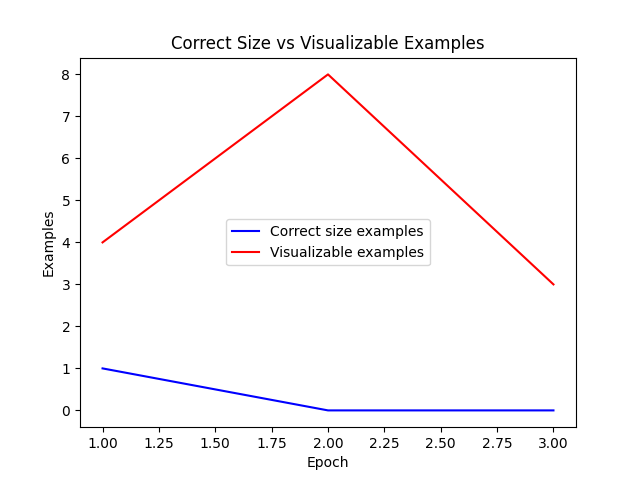
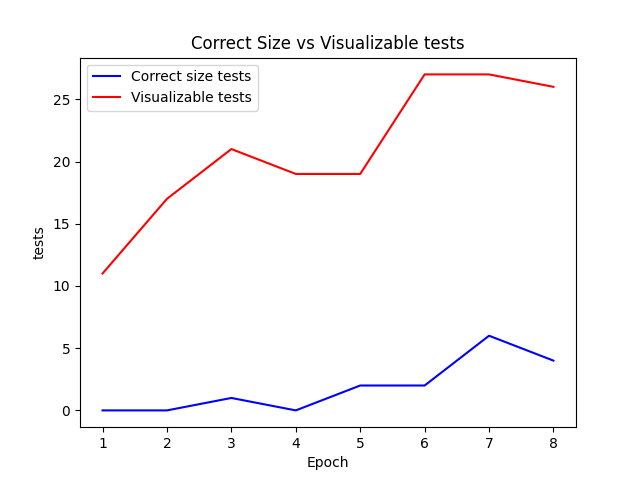
Update model stats visualization and add moving average

diff --git a/train_gpt2.py b/train_gpt2.py
@@ -38,9 +38,23 @@ class ArcDataset(Dataset):
     def __getitem__(self, idx):
         return self.data[idx]
 
-def train(model_path, learning_rate, batch_size, epoch, model_name=None):
+def train(model_path, learning_rate, batch_size, epoch, model_name=None, stats=[]):
     if model_name is None:
         model_name = model_path
+
+    if stats == []:
+        max_correct_size_tests = 0
+    else:
+        # Check if epoch exists in stats
+        epoch_exists_in_stats = any(stat['epoch'] == epoch for stat in stats)
+        # Remove all stats after the epoch
+        stats = [stat for stat in stats if stat['epoch'] <= epoch]
+        if epoch_exists_in_stats:
+            # Get the max correct size tests from stats
+            max_correct_size_tests = max([stat['correct_size_tests'] for stat in stats])
+        else:
+            raise Exception("Epoch does not match with the last epoch in stats")
+    
     print(f"model_path: {model_path}\nlearning_rate: {learning_rate}\nbatch_size: {batch_size}\nmodel_name: {model_name}\nepoch: {epoch}")
     tokenizer = GPT2Tokenizer.from_pretrained(model_path)
     # Ensure that pad_token is set
@@ -74,7 +88,6 @@ def train(model_path, learning_rate, batch_size, epoch, model_name=None):
 
     # Train model
     print("Start training...")
-    stats = []
     while True:  # Number of epochs
         model.train()
 
@@ -98,13 +111,13 @@ def train(model_path, learning_rate, batch_size, epoch, model_name=None):
         epoch += 1
         print(f"Epoch {epoch} completed with loss {loss.item()}")
 
-        visualizable_examples = 0
-        correct_size_examples = 0
+        visualizable_tests = 0
+        correct_size_tests = 0
         
-        # Evaluate model every epoch by generating 5 examples called from test data '0c786b71.json' and visualize them
-        temperature = 0.0
+        # Evaluate model every epoch by generating 5 tests called from test data '0c786b71.json' and visualize them
+        temperature = 0.1
 
-        for l in range(1, 11+1):
+        for l in range(1, 10+1):
                 for i in range(1, 3+1):
                             result = test_gpt2.test_model(model, tokenizer, device, temperature)
 
@@ -114,10 +127,10 @@ def train(model_path, learning_rate, batch_size, epoch, model_name=None):
                             elif result == 'invalid x-axis size':
                                 continue
                             elif result == 'invalid y-axis size':
-                                visualizable_examples += 1
+                                visualizable_tests += 1
                             else:
-                                correct_size_examples += 1
-                                visualizable_examples += 1
+                                correct_size_tests += 1
+                                visualizable_tests += 1
                                 # Visualize the result
                                 data = json.loads(result)
                                 visualize.heatmap(f"{model_name}_{learning_rate}_{epoch}", data, round(temperature,2), i)
@@ -127,15 +140,16 @@ def train(model_path, learning_rate, batch_size, epoch, model_name=None):
         if stats == []:
             stats.append({
                 'epoch': epoch,
-                'correct_size_examples': correct_size_examples,
-                'visualizable_examples': visualizable_examples
+                'correct_size_tests': correct_size_tests,
+                'visualizable_tests': visualizable_tests
             })
-        # if the number of correct size examples or visualizable examples is higher than the previous epoch, save the model
-        elif stats[-1]['correct_size_examples'] < correct_size_examples:
+        # if the number of correct size tests or visualizable tests is higher than the previous epoch, save the model
+        elif max_correct_size_tests < correct_size_tests:
+            max_correct_size_tests = correct_size_tests
             stats.append({
                 'epoch': epoch,
-                'correct_size_examples': correct_size_examples,
-                'visualizable_examples': visualizable_examples
+                'correct_size_tests': correct_size_tests,
+                'visualizable_tests': visualizable_tests
             })
             # Save model
             print(f"Saving model...")
@@ -145,16 +159,18 @@ def train(model_path, learning_rate, batch_size, epoch, model_name=None):
         else:
             stats.append({
                 'epoch': epoch,
-                'correct_size_examples': correct_size_examples,
-                'visualizable_examples': visualizable_examples
+                'correct_size_tests': correct_size_tests,
+                'visualizable_tests': visualizable_tests
             })
+
+        # Visualize stats
+        visualize.graph(model_name, learning_rate, stats)
+        visualize.avg_graph(model_name, learning_rate, stats)
+
         os.makedirs(f'stats', exist_ok=True)
         # Save stats
         with open(f'stats/{model_name}_{learning_rate}.json', 'w') as file:
             json.dump(stats, file)
-        
-        # Visualize stats
-        visualize.graph(model_name, learning_rate)
             
 
 if __name__ == '__main__':
@@ -169,8 +185,11 @@ if __name__ == '__main__':
         batch_size = 1
         parent_model = ''.join(model_path.split('_')[:-2])
         epoch = int(model_path.split('_')[-1])
+        # Load stats
+        with open(f'stats/{parent_model}_{learning_rate}.json', 'r') as file:
+            stats = json.load(file)
 
-        train(model_path, learning_rate, batch_size, epoch, model_name=parent_model)
+        train(model_path, learning_rate, batch_size, epoch, model_name=parent_model, stats=stats)
     else:
         model_path = 'gpt2'
         learning_rate = 2e-5

diff --git a/visualize.py b/visualize.py
@@ -3,6 +3,9 @@ import matplotlib.pyplot as plt
 import json
 import os
 import test_gpt2
+import numpy as np
+import seaborn as sns
+import pandas as pd
 
 def heatmap(graph_name, data, temperature, iteration=1):
     print(f"Visualizing example {iteration} of model {graph_name} with temperature {temperature}")
@@ -36,37 +39,33 @@ def heatmap(graph_name, data, temperature, iteration=1):
     # Close the figure
     plt.close(figure)
 
-def graph(model_name, learning_rate):
+def graph(model_name, learning_rate, stats):
     print(f"Visualizing stats of model {model_name}")
-    with open(f'stats/{model_name}_{learning_rate}.json', 'r') as file:
-        stats = json.load(file)
-    # Create a figure
-    figure, axis = plt.subplots(1, 2)
 
     # Create a list of epochs
     epochs = [stat['epoch'] for stat in stats]
-    # Create a list of correct size examples
-    correct_size_examples = [stat['correct_size_examples'] for stat in stats]
-    # Create a list of visualizable examples
-    visualizable_examples = [stat['visualizable_examples'] for stat in stats]
+    # Create a list of correct size tests
+    correct_size_tests = [stat['correct_size_tests'] for stat in stats]
+    # Create a list of visualizable tests
+    visualizable_tests = [stat['visualizable_tests'] for stat in stats]
 
     # Create a figure and a set of subplots
     fig, ax = plt.subplots()
 
-    # Plot the data for correct size examples
-    ax.plot(epochs, correct_size_examples, color='blue', label='Correct size examples')
+    # Plot the data for correct size tests
+    ax.plot(epochs, correct_size_tests, color='blue', label='Correct size tests')
 
-    # Plot the data for visualizable examples
-    ax.plot(epochs, visualizable_examples, color='red', label='Visualizable examples')
+    # Plot the data for visualizable tests
+    ax.plot(epochs, visualizable_tests, color='red', label='Visualizable tests')
 
     # Set the title
-    ax.set_title("Correct Size vs Visualizable Examples")
+    ax.set_title("Correct Size vs Visualizable tests")
 
     # Set the x-axis label
     ax.set_xlabel("Epoch")
 
     # Set the y-axis label
-    ax.set_ylabel("Examples")
+    ax.set_ylabel("tests")
 
     # Add a legend
     ax.legend()
@@ -78,10 +77,65 @@ def graph(model_name, learning_rate):
     # Close the figure
     plt.close(fig)
 
+def avg_graph(model_name, learning_rate, stats):
+    print(f"Visualizing stats of model {model_name}")
+
+    # Create a list of epochs
+    epochs = [stat['epoch'] for stat in stats]
+    # Create a list of correct size tests
+    correct_size_tests = [stat['correct_size_tests'] for stat in stats]
+    # Create a list of visualizable tests
+    visualizable_tests = [stat['visualizable_tests'] for stat in stats]
+    # Calculate the difference between visualizable_tests and correct_size_tests
+    difference = np.array(visualizable_tests) - np.array(correct_size_tests)
+
+    def moving_average(a, n=3) :
+        ret = np.cumsum(a, dtype=float)
+        ret[n:] = ret[n:] - ret[:-n]
+        return ret[n - 1:] / n
+    
+    # Calculate the moving averages
+    correct_size_tests_avg = moving_average(correct_size_tests)
+    visualizable_tests_avg = moving_average(visualizable_tests)
+    difference_avg = moving_average(difference)
+
+    # Adjust epochs for moving average
+    epochs_avg = epochs[len(epochs) - len(correct_size_tests_avg):]
+
+    # Create a figure and a set of subplots
+    fig, ax = plt.subplots()
+
+    # Plot the moving averages
+    ax.plot(epochs_avg, correct_size_tests_avg, color='blue', label='Correct size tests (avg)')
+    ax.plot(epochs_avg, visualizable_tests_avg, color='red', label='Visualizable tests (avg)')
+    ax.plot(epochs_avg, difference_avg, color='purple', label='Difference between correct size and visualizable tests (avg)')
+
+    # Set the title
+    ax.set_title("Moving Average of Model Performance Metrics Over Epochs")
+
+    # Set the x-axis label
+    ax.set_xlabel("Epoch")
+
+    # Set the y-axis label
+    ax.set_ylabel("tests")
+
+    # Add a legend
+    ax.legend()
+
+    # Save the figure
+    os.makedirs(f'stats', exist_ok=True)
+    plt.savefig(f'stats/{model_name}_{learning_rate}_avg.png')
+
+    # Close the figure
+    plt.close(fig)
+
 if __name__ == '__main__':
     model_path = 'gpt2'
     learning_rate = 2e-05
-    graph(model_path, learning_rate)
+    with open(f'stats/{model_path}_{learning_rate}.json', 'r') as file:
+        stats = json.load(file)
+    graph(model_path, learning_rate, stats)
+    avg_graph(model_path, learning_rate, stats)
 
 """
     top_k = 30

diff --git a/readme.md b/readme.md
@@ -1,0 +1,37 @@
+# ARC-Benchmarking on GPT2
+
+[![License](https://img.shields.io/badge/license-MIT-blue.svg)](LICENSE)
+
+## Description
+
+This is the code of the Medium post "Exploring AI’s Complexities: Unraveling LLMs Abstract Thinking with ARC"
+https://medium.com/@adimadlp/exploring-ais-complexities-unraveling-llms-abstract-thinking-with-arc-20f94826207c
+
+## Table of Contents
+
+- [Installation](#installation)
+- [Usage](#usage)
+- [Contributing](#contributing)
+- [License](#license)
+- [Contact](#contact)
+
+## Installation
+
+Instructions on how to install and set up your project.
+
+## Usage
+
+Examples and instructions on how to use your project.
+
+## Contributing
+
+Guidelines for contributing to the project.
+
+## License
+
+This project is licensed under the [MIT License](LICENSE).
+
+## Contact
+
+- Email: your-email@example.com
+- GitHub: [Your GitHub Username](https://github.com/your-username)
